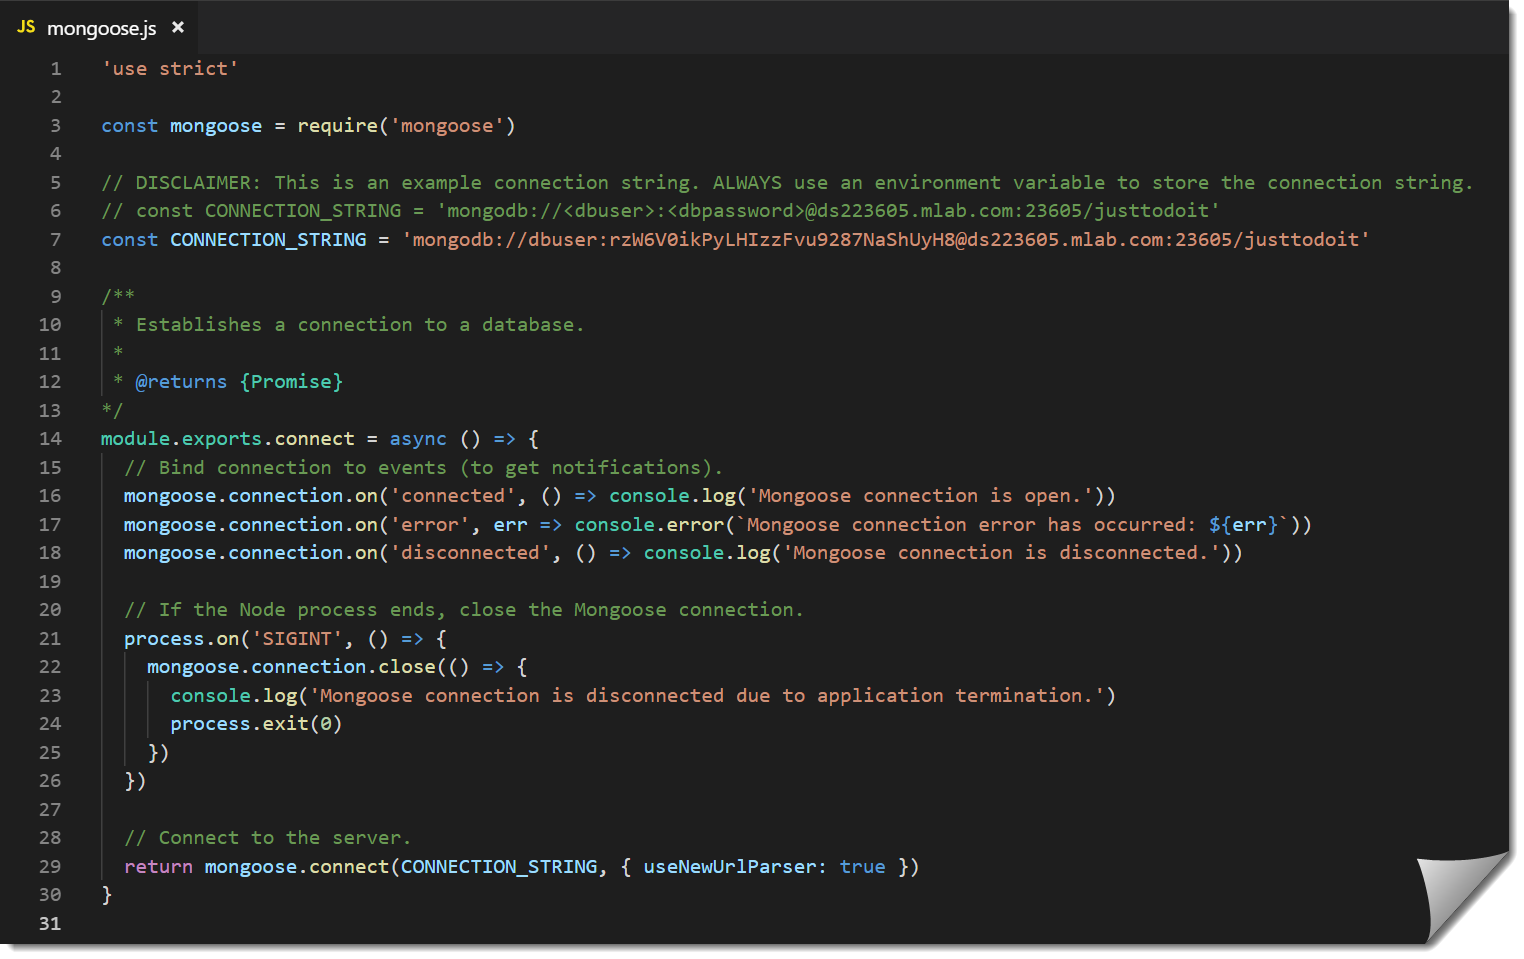
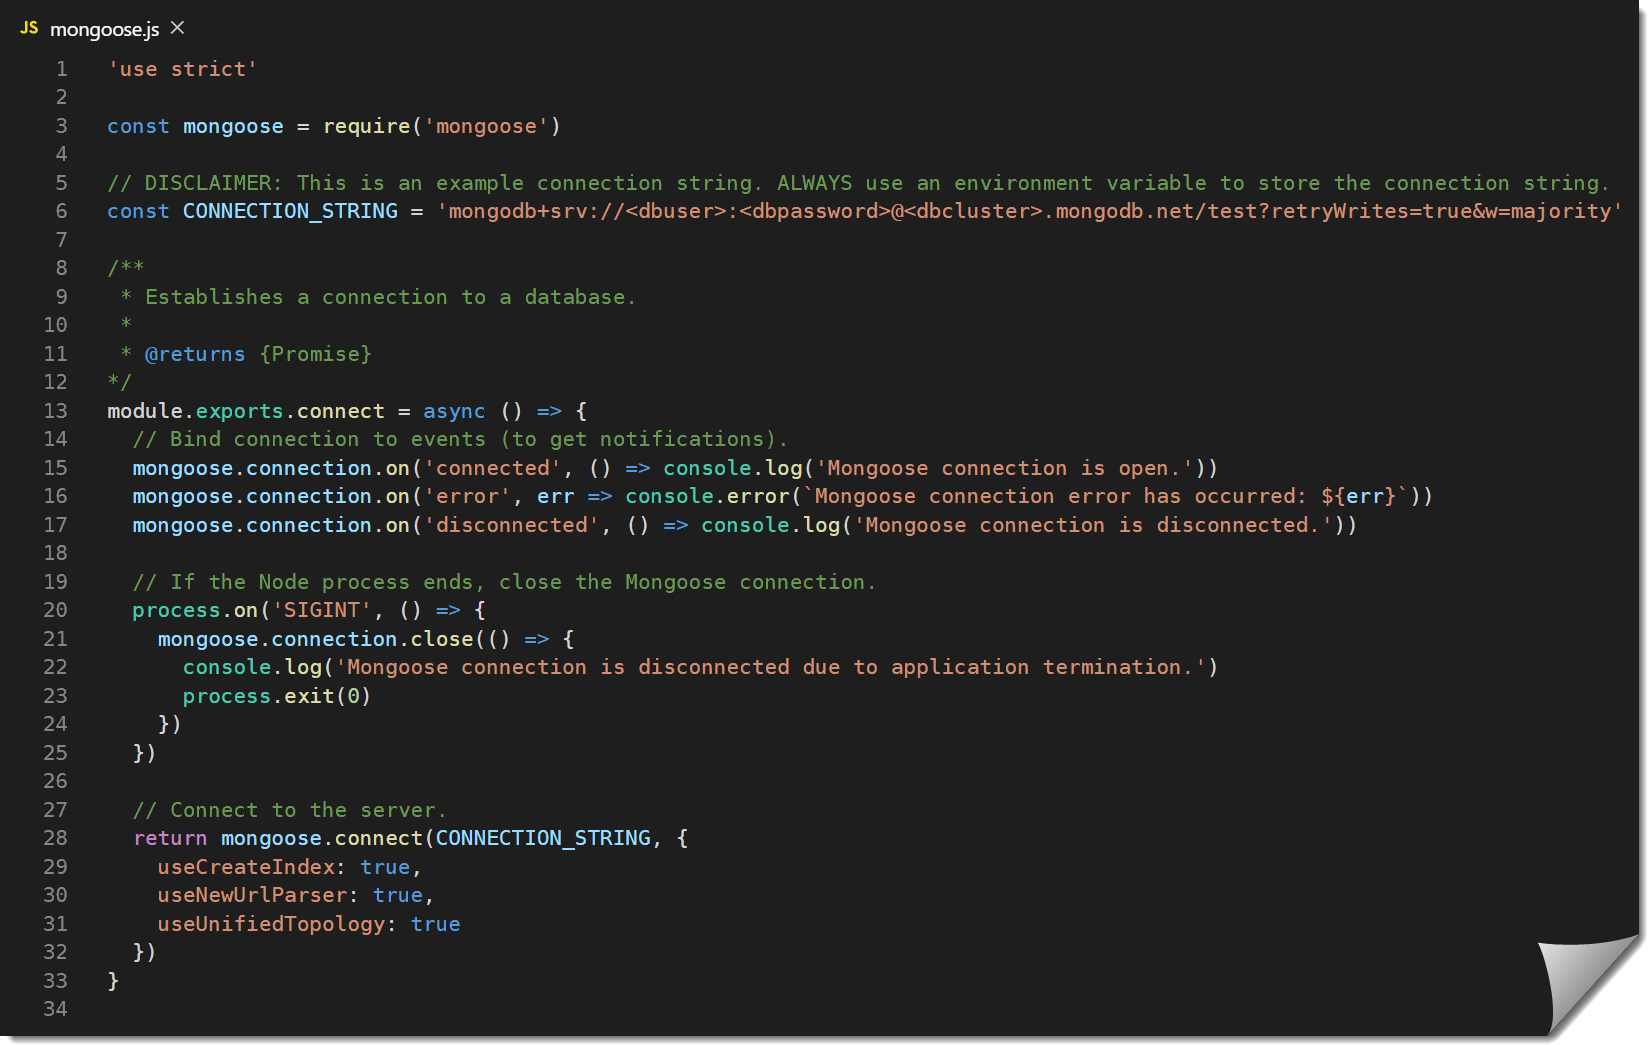
Updating before fall 2019

diff --git a/lectures/03/index.html b/lectures/03/index.html
@@ -378,12 +378,12 @@
       <section>
 
         <section>
-          <h3>The web server hasn't got a clue about state</h3>
+          <h3>The web server does not have a clue about the state</h3>
           <div class="center">
             <img src="./images/stateless.png" />
           </div>
           <ul>
-            <li>Neither the server or the browser has a intrinsic way of knowing that's the same browser wisting the same site.
+            <li>Neither the server nor the browser has an intrinsic way of knowing that it is the same browser that visits the same site.
               <ul>
                 <li>(How is it then possible to log on to something?)</li>
               </ul>
@@ -392,7 +392,7 @@
         </section>
 
         <section>
-          <h3>Maintaining state with sessions</h3>
+          <h3>Maintain the state with sessions</h3>
           <div class="center">
             <img src="./images/session-cookie.png"  height="500" />
           </div>
@@ -446,7 +446,7 @@
             ```
             req.session.name = 'Ada'      // creates the session variable 'name'
 
-            const name = req.session.name // get the value of the session variable 'name'
+            const name = req.session.name // gets the value of the session variable 'name'
 
             delete req.session.name       // removes the session variable 'name'
 
@@ -495,7 +495,7 @@
                     <li>How do we keep the user posted after the round trip?</li>
                   </ul>
                 </li>
-                <li>Whenever you redirect someone in your website it is a good idea to use a flash message to let them know that what they just did worked or not.
+                <li>Whenever you redirect someone on your website it is a good idea to use a flash message to let them know that what they just did worked or not.
                   <ul>
                     <li>The flash message should survive only a round trip.</li>
                     <li>Use a session variable to save the message and delete the message on the next request.</li>

diff --git a/lectures/03/demo/config/mongoose.js b/lectures/03/demo/config/mongoose.js
@@ -32,5 +32,9 @@ module.exports.connect = async () => {
   })
 
   // Connect to the server.
-  return mongoose.connect(CONNECTION_STRING, { useNewUrlParser: true })
+  return mongoose.connect(CONNECTION_STRING, {
+    useCreateIndex: true,
+    useNewUrlParser: true,
+    useUnifiedTopology: true
+  })
 }
